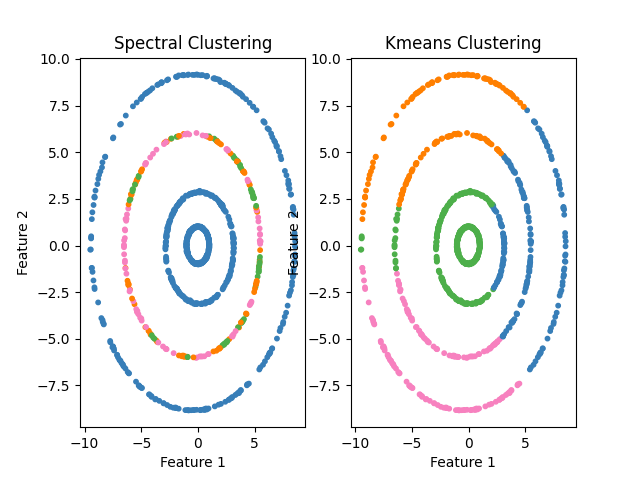
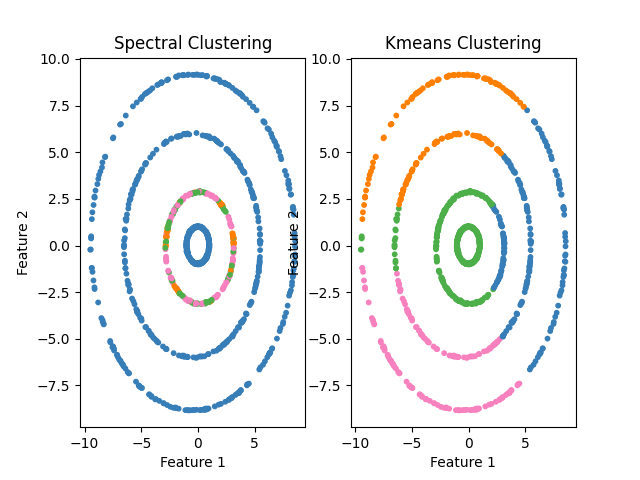
Working stage 1 : Spectral clustering

diff --git a/Assignment1/code/utilities/SpectralClustering.py b/Assignment1/code/utilities/SpectralClustering.py
@@ -1,72 +1,100 @@
-
-from matplotlib import pyplot as plt
-from itertools import cycle, islice
+import scipy.io
+import matplotlib.pyplot as plt
 import numpy as np
+import math
+import scipy
+import pandas as pd
+import copy
+import numpy
 
-def myKNN(S, k, sigma=1.0):
-    N = len(S)
-    A = np.zeros((N,N))
+plt.style.use('ggplot')
+np.random.seed(1)
+
+def dist(a, b, ax=1):
+    """ Euclidean distance """
+    return np.linalg.norm(a-b, axis=ax)
+
+def kmeans(X, k):
+    C_x = np.random.uniform(0, np.max(X[0]), size=k)
+    C_y = np.random.uniform(0, np.max(X[1]), size=k)
+    C = np.array(list(zip(C_x, C_y)), dtype=np.float32)
+
+    C_old = np.zeros(C.shape)
+    clusters = np.zeros(X.shape[1])
+    error = dist(C, C_old, None)
+    
+    flag = True
+    
+    while error != 0:
+        for i in range(X.shape[1]):
+            distances = dist((X[0][i], X[1][i]), C)
+            if numpy.isnan(distances).any() and flag:
+                flag = False
+                print(distances)
+                print("Coords: ")
+                print(X[0][i], X[1][i])
+                print("C: ")
+                print(C)
+            cluster = np.argmin(distances)
+            clusters[i] = cluster
+        C_old = copy.deepcopy(C)
+        for i in range(k):
+            points = np.array([(X[0][j], X[1][j]) for j in range(X.shape[1]) if clusters[j] == i])
+            if len(points) == 0:
+                C[i] = 0
+            else:
+                C[i] = np.mean(points, axis=0)
+        error = dist(C, C_old, None)
+    
+    return clusters
+def similarity(a, b):
+    return np.exp(-(abs(a-b)**2) / 10)
+
+
+import scipy.sparse.linalg
+def spectral_clustering(affinity, k):
+    def laplacian(A):
+        D = np.zeros(A.shape)
+        w = np.sum(A, axis=0)
+        D.flat[::len(w) + 1] = w ** (-0.5)
+        return D.dot(A).dot(D)
+    L = laplacian(affinity)
+    _, eigvec = scipy.sparse.linalg.eigs(L, k)
+    X = eigvec.real
+    rows_norm = np.linalg.norm(X, axis=1, ord=2)
+    labels = kmeans((X.T / rows_norm), k)
+    return labels
+
+def compute_affinity(X):
+    def squared_exponential(x, y, sig=0.8, sig2=1):
+        """ Models smooth functions
+        
+        Function from previous spectral clustering project from tut """
+        norm = numpy.linalg.norm(x - y)
+        dist = norm * norm
+        return numpy.exp(- dist / (2 * sig * sig2))
+    
+    N = X.shape[0]
+    res = np.zeros((N, N))
+    sig = []
+    for i in range(N):
+        dists = []
+        for j in range(N):
+            dists.append(np.linalg.norm(X[i] - X[j]))
+        dists.sort()
+        sig.append(np.mean(dists[:5]))
 
     for i in range(N):
-        dist_with_index = zip(S[i], range(N))
-        dist_with_index = sorted(dist_with_index, key=lambda x:x[0])
-        neighbours_id = [dist_with_index[m][1] for m in range(k+1)] # xi's k nearest neighbours
-
-        for j in neighbours_id: # xj is xi's neighbour
-            A[i][j] = np.exp(-S[i][j]/2/sigma/sigma)
-            A[j][i] = A[i][j] # mutually
-
-    return A
-
-def calLaplacianMatrix(adjacentMatrix):
-
-    # compute the Degree Matrix: D=sum(A)
-    degreeMatrix = np.sum(adjacentMatrix, axis=1)
-
-    # print degreeMatrix
-
-    # compute the Laplacian Matrix: L=D-A
-    laplacianMatrix = np.diag(degreeMatrix) - adjacentMatrix
-
-    # print laplacianMatrix
-
-    # normailze
-    # D^(-1/2) L D^(-1/2)
-    sqrtDegreeMatrix = np.diag(1.0 / (degreeMatrix ** (0.5)))
-    return np.dot(np.dot(sqrtDegreeMatrix, laplacianMatrix), sqrtDegreeMatrix)
-
-def plot(X, y_sp, y_km):
-    colors = np.array(list(islice(cycle(['#377eb8', '#ff7f00', '#4daf4a',
-                                                '#f781bf', '#a65628', '#984ea3',
-                                                '#999999', '#e41a1c', '#dede00']),
-                                        int(max(y_km) + 1))))
-    plt.subplot(121)
-    plt.scatter(X[:,0], X[:,1], s=10, color=colors[y_sp])
-    plt.title("Spectral Clustering")
-    plt.xlabel("Feature 1")
-    plt.ylabel("Feature 2")
-
-    plt.subplot(122)
-    plt.scatter(X[:,0], X[:,1], s=10, color=colors[y_km])
-    plt.title("Kmeans Clustering")
-    plt.xlabel("Feature 1")
-    plt.ylabel("Feature 2")
-    
-    plt.savefig("plots/Q2/Q2c_k4.png")
-
-def euclidDistance(x1, x2, sqrt_flag=False):
-    res = np.sum((x1-x2)**2)
-    if sqrt_flag:
-        res = np.sqrt(res)
+        for j in range(N):
+            res[i][j] = squared_exponential(X[i], X[j], sig[i], sig[j])
     return res
 
-def calEuclidDistanceMatrix(X):
-    X = np.array(X)
-    S = np.zeros((len(X), len(X)))
-    for i in range(len(X)):
-        for j in range(i+1, len(X)):
-            S[i][j] = 1.0 * euclidDistance(X[i], X[j])
-            S[j][i] = S[i][j]
-    return S
-
-            
+def plot_clusters(X, clusters, k, title="Title here"):
+    symbols = ['x', 'o', '^', '.', '1', '2', '3', '4']
+    fig, ax = plt.subplots()
+    for i in range(k):
+        points = np.array([(X[0][j], X[1][j]) for j in range(X.shape[1]) if clusters[j] == i])
+        if len(points) != 0:
+            ax.scatter(points[:, 0], points[:, 1], s=40, marker=symbols[i])
+    plt.title(title)
+    plt.savefig("test.png", dpi=500)

diff --git a/Assignment1/code/Q2.py b/Assignment1/code/Q2.py
@@ -1,4 +1,3 @@
-import imp
 import pandas as pd
 import copy
 
@@ -49,26 +48,19 @@ if __name__ == '__main__':
 
 # ############################ Questsion 2 -> (iii) Part #######################################
     print("---------------------------- Q2 - part (iii) Output------------------------")
-
+    
     import numpy as np
-    import pandas as pd
-    np.random.seed(25)
-    
-    from sklearn.cluster import KMeans
-    Similarity = sc.calEuclidDistanceMatrix(dataset)
-    Adjacent = sc.myKNN(Similarity, k=4)
-    Laplacian = sc.calLaplacianMatrix(Adjacent)
+    file = open("dataset/Dataset.csv")
+    mat3 = np.loadtxt(file, delimiter=",")
 
-    x, V = np.linalg.eig(Laplacian)
-    x = zip(x, range(len(x)))
-    x = sorted(x, key=lambda x:x[0])
-    H = np.vstack([V[:,i] for (v, i) in x[:1]]).T
-    
-    H=np.array(H).real()
-    sp_kmeans = KMeans(n_clusters=4).fit(H)
-    pure_kmeans = KMeans(n_clusters=4).fit(dataset)
+    mat3=np.transpose(mat3)
+    import utilities.SpectralClustering as  sc
 
-    sc.plot(dataset, sp_kmeans.labels_, pure_kmeans.labels_)
+    affinity1 = sc.compute_affinity(mat3.T)
+
+    k1 = sc.spectral_clustering(affinity1, 4)
+    sc.plot_clusters(mat3, k1, 4, "Spectral on mat3, k=4")
+
 
 # ############################ Questsion 2 -> (iv) Part #######################################
     print("---------------------------- Q2 - part (iv) Output------------------------")
